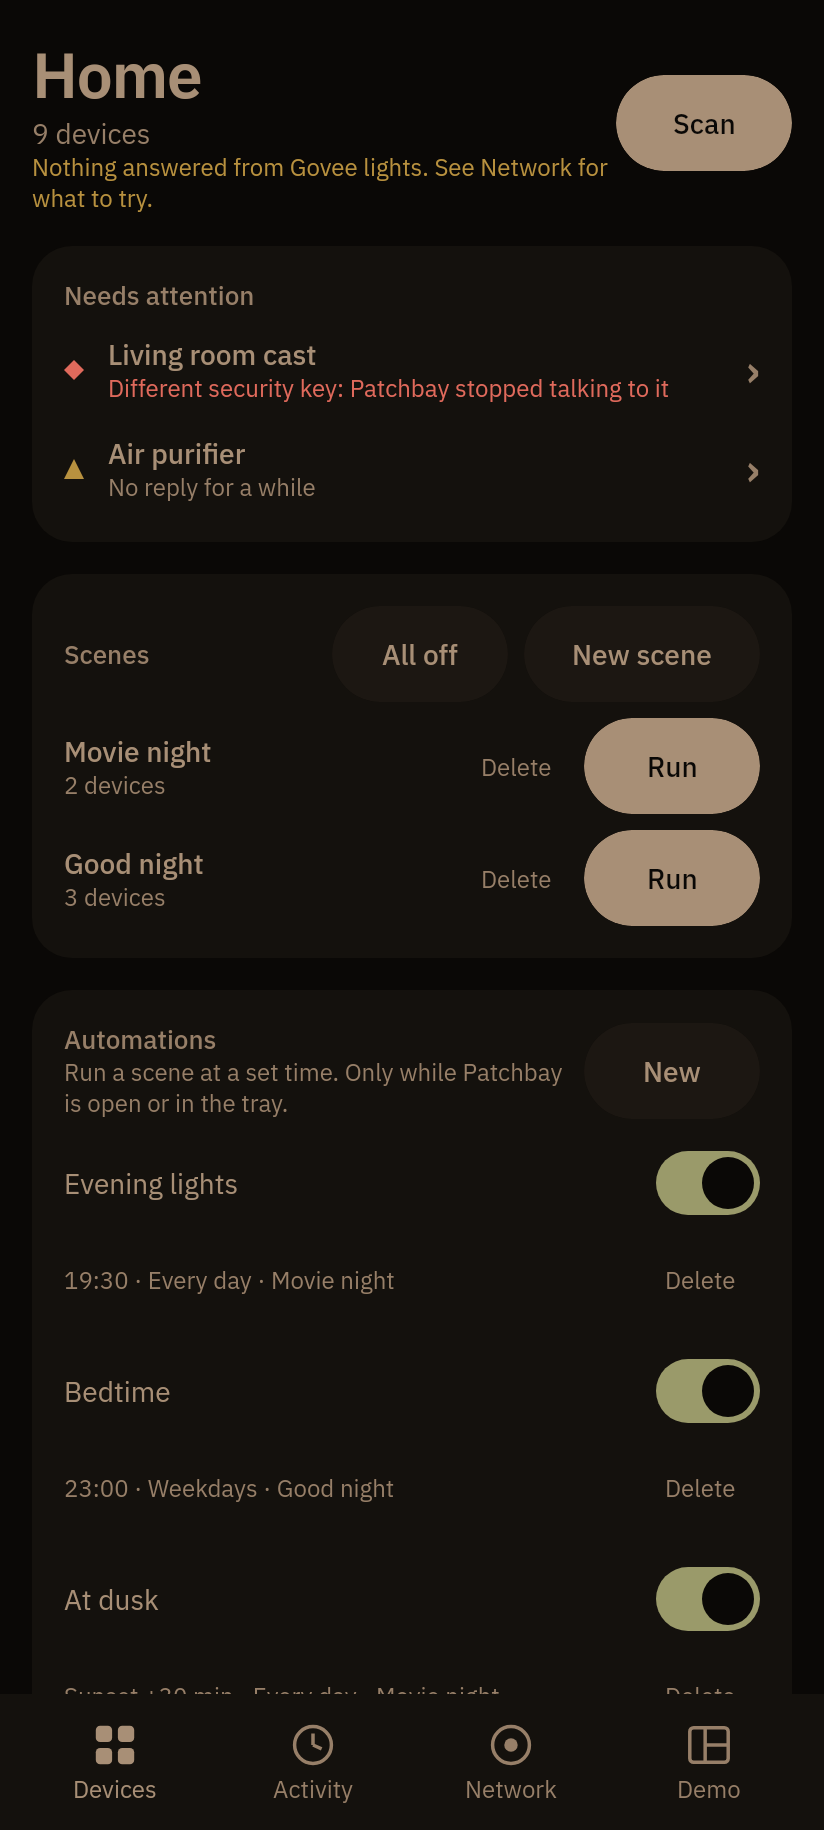
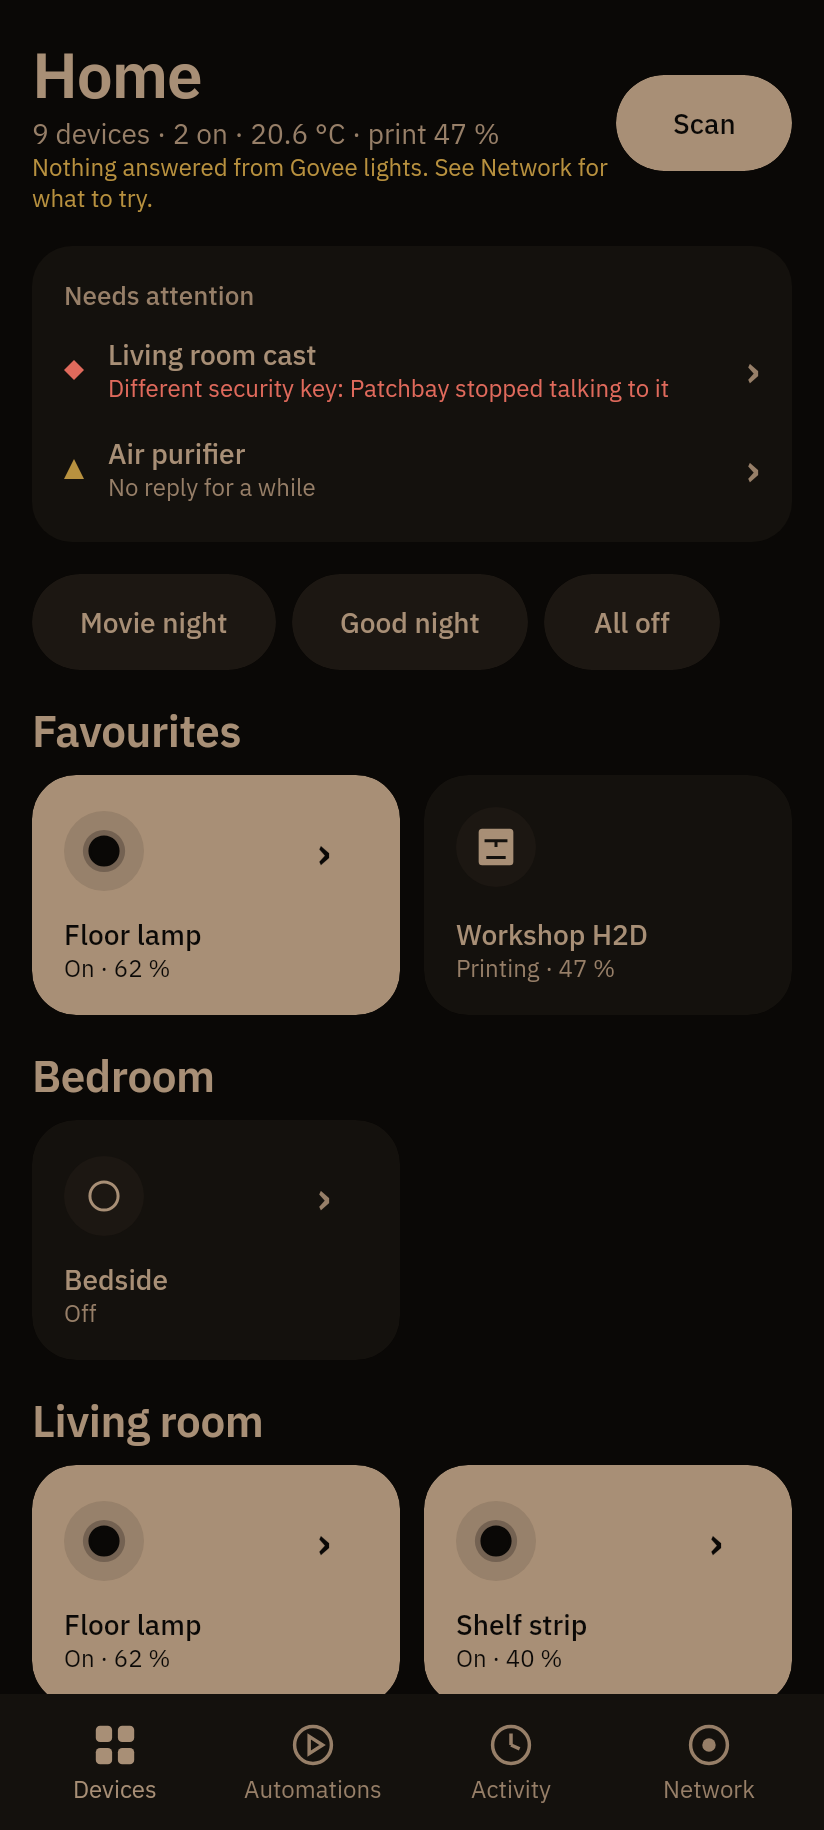
docs: re-record the 34 design screenshots after the devices-first layout and motion pass
Claude-Session: https://claude.ai/code/session_01VKgrBEm7ZaxNZiCGqfgE4v

diff --git a/docs/design/screens/README.md b/docs/design/screens/README.md
@@ -2,7 +2,7 @@
 
 These PNGs are rendered by `ui/src/desktopTest/.../ScreenshotTest.kt` from the deterministic demo home.
 
-**Recorded 2026-11-06** from the CI render of commit `aa39b47` (33 PNGs: light, dark and night, phone and desktop, including the live tile screens the Network screen and Settings), after the visual redesign (ADR 0009). The
+**Recorded 2026-11-09** from the CI render of commit `218e25a` (34 PNGs: light, dark and night, phone and desktop, including the live tile screens the Network screen and Settings), after the devices-first layout, the Automations screen and the motion pass (ADR 0009). The
 `:ui:desktopTest` run in CI compares every render with these and fails on drift (ADR 0006).
 
 When you change the UI on purpose, re-record and review the images before committing them. In CI, run the
